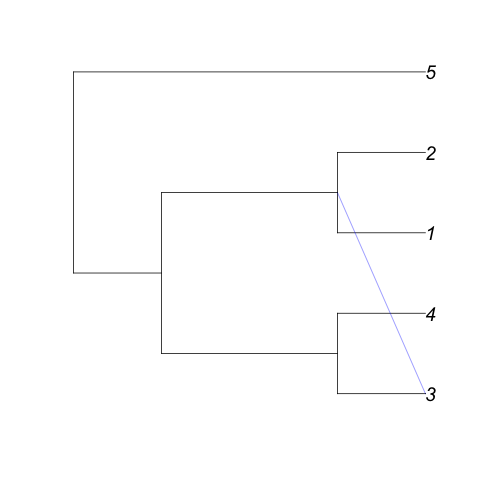
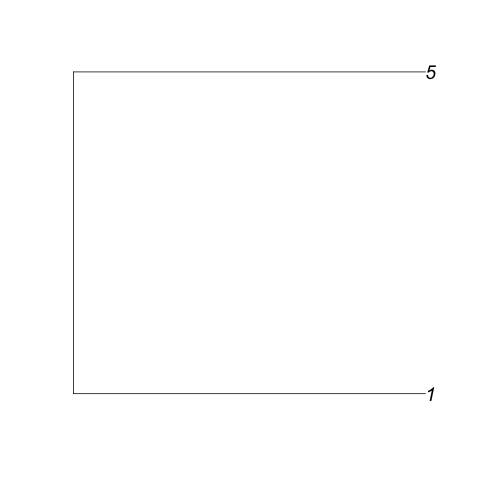
Changed Port Number for MAC

diff --git a/NewWebsite/sketch.js b/NewWebsite/sketch.js
@@ -87,7 +87,7 @@ function pushStringToServer(triplets) {
   });;
 
   var request = new XMLHttpRequest();
-  request.open("POST", "http://127.0.0.1:80/upload/");
+  request.open("POST", "http://127.0.0.1:5000/upload/");
   request.setRequestHeader("Content-Type", "application/json");
   request.addEventListener("readystatechange", processRequest, false);
   request.send(data);
@@ -117,7 +117,7 @@ function pushLeavesToServer(leaves) {
   });;
 
   var request = new XMLHttpRequest();
-  request.open("POST", "http://127.0.0.1:80/uploadLeaves/");
+  request.open("POST", "http://127.0.0.1:5000/uploadLeaves/");
   request.setRequestHeader("Content-Type", "application/json");
   request.addEventListener("readystatechange", processRequest, false);
   request.send(data);
@@ -147,7 +147,7 @@ function pushChangeRootToServer(flag, tripRoot) {
   });;
 
   var request = new XMLHttpRequest();
-  request.open("POST", "http://127.0.0.1:80/changeRoot/"+tripRoot);
+  request.open("POST", "http://127.0.0.1:5000/changeRoot/"+tripRoot);
   request.setRequestHeader("Content-Type", "application/json");
   request.addEventListener("readystatechange", processRequest, false);
   request.send(data);

diff --git a/ParsingTxt/ServerAction.py b/ParsingTxt/ServerAction.py
@@ -40,7 +40,7 @@ def removeLeaves(leafNodes):
         text_file.write(leafNodes)
     # write it to a file
     # then use the julia command
-    cmd = 'julia .\\remove-leaves.jl .\\NetworkParen.net .\\leaves.txt'
+    cmd = 'julia remove-leaves.jl  NetworkParen.net  leaves.txt'
     os.system(cmd)
     # convert Parenthetical format to png
     cmd = 'julia plot-network.jl reduced-net.txt'
@@ -62,6 +62,8 @@ def changeRoot(flag, newRoot):
 """There is a problem in the following method. I tried the same commmand via the terminal and that generates a different
 dot file as compared the same command via Python.
 """
+
+
 def tripletsToDot(tripletsFName):
     cmd = 'java -jar Lev1athan.jar ' + tripletsFName + ' > cExample1.dot --nopostprocess'
     # cmd = 'java -jar Lev1athan.jar cExample1.trips > cExample1.dot --nopostprocess'
@@ -72,8 +74,8 @@ if __name__ == '__main__':
     print("Hello")
     tripletsToDot('cExample1.trips')
     convertDotToPNG('cExample1.dot')
-    # removeLeaves('1\n4')
-    convertDotToPNGJulia('cExample1.dot')
+    removeLeaves('1\n5')
+    # convertDotToPNGJulia('cExample1.dot')
     print("Hello")
 
     # changeRoot('outgroup', '3')

diff --git a/ParsingTxt/Server.py b/ParsingTxt/Server.py
@@ -1,4 +1,3 @@
-import os
 import ServerAction
 from flask import Flask, request, jsonify
 
@@ -137,7 +136,7 @@ def get_text_prediction(lang):
 
 if __name__ == '__main__':
     # app.run(host='0.0.0.0', port=5000)
-    app.run(host='127.0.0.1', port=80)
+    app.run(host='127.0.0.1', port=5000)
 
 # reduce network needs a file with the nodes you want to keep
 #
